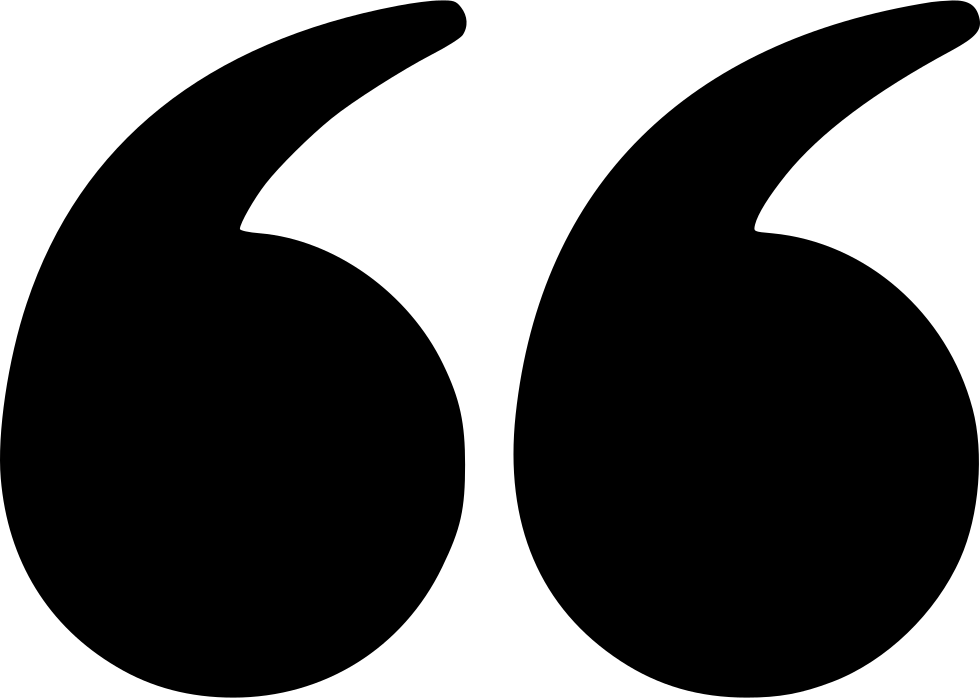
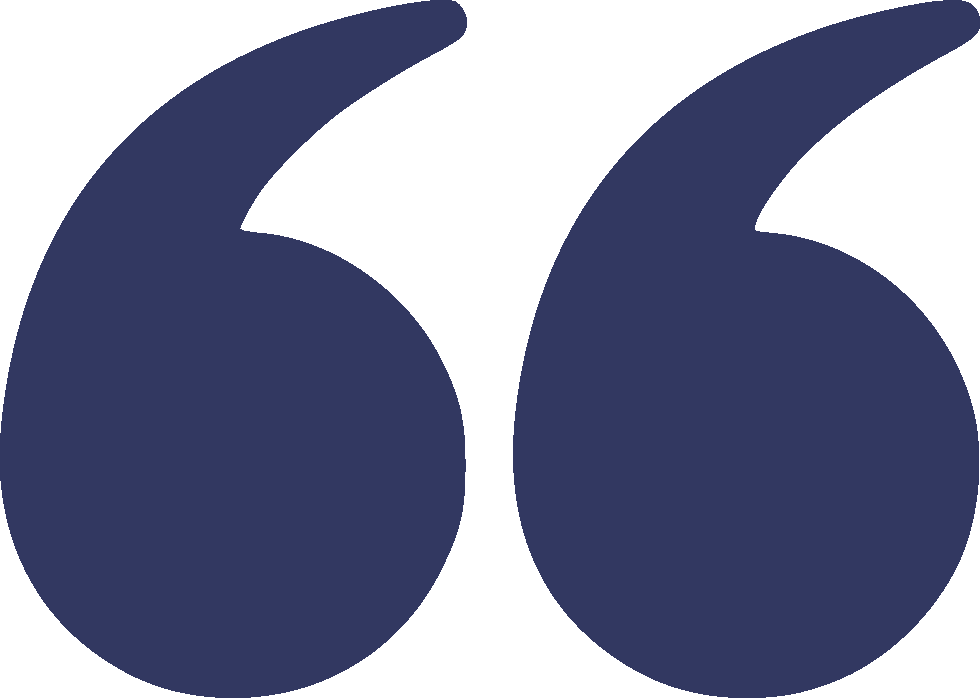
commit all

diff --git a/index.html b/index.html
@@ -334,8 +334,8 @@
                     incididunt ut labore et dolore magna aliqua"
                   </p>
                 </div>
-                <div class="footer">
-                  <div>brand</div>
+                <div class="title">
+                  <p>Brand</p>
                 </div>
               </div>
             </div>
@@ -343,11 +343,16 @@
             <div class="col-md-12 item">
               <div class="slider-container__details slider-container__overlay">
                 <div>
+                  <img src="quotes2.png" />
                   <p>
                     "Lorem ipsum dolor sit amet, consectetur adipiscing elit,
                     sed do eiusmod tempor incididunt ut labore et dolore magna
-                    aliqua.
+                    aliqua onsectetur adipiscing elit, sed do eiusmod tempor
+                    incididunt ut labore et dolore magna aliqua"
                   </p>
+                </div>
+                <div class="title">
+                  <p>Stella</p>
                 </div>
               </div>
             </div>
@@ -355,15 +360,16 @@
             <div class="col-md-12 item">
               <div class="slider-container__details slider-container__overlay">
                 <div>
+                  <img src="quotes2.png" />
                   <p>
                     "Lorem ipsum dolor sit amet, consectetur adipiscing elit,
                     sed do eiusmod tempor incididunt ut labore et dolore magna
-                    aliqua.
+                    aliqua onsectetur adipiscing elit, sed do eiusmod tempor
+                    incididunt ut labore et dolore magna aliqua"
                   </p>
                 </div>
-                <div class="footer">
-                  <div>client</div>
-                  <div>brand</div>
+                <div class="title">
+                  <p>Adriana</p>
                 </div>
               </div>
             </div>
@@ -371,15 +377,16 @@
             <div class="col-md-12 item">
               <div class="slider-container__details slider-container__overlay">
                 <div>
+                  <img src="quotes2.png" />
                   <p>
                     "Lorem ipsum dolor sit amet, consectetur adipiscing elit,
                     sed do eiusmod tempor incididunt ut labore et dolore magna
-                    aliqua.
+                    aliqua onsectetur adipiscing elit, sed do eiusmod tempor
+                    incididunt ut labore et dolore magna aliqua"
                   </p>
                 </div>
-                <div class="footer">
-                  <div>client</div>
-                  <div>brand</div>
+                <div class="title">
+                  <p>Felix</p>
                 </div>
               </div>
             </div>
@@ -387,15 +394,16 @@
             <div class="col-md-12 item">
               <div class="slider-container__details slider-container__overlay">
                 <div>
+                  <img src="quotes2.png" />
                   <p>
                     "Lorem ipsum dolor sit amet, consectetur adipiscing elit,
                     sed do eiusmod tempor incididunt ut labore et dolore magna
-                    aliqua.
+                    aliqua onsectetur adipiscing elit, sed do eiusmod tempor
+                    incididunt ut labore et dolore magna aliqua"
                   </p>
                 </div>
-                <div class="footer">
-                  <div>client</div>
-                  <div>brand</div>
+                <div class="title">
+                  <p>John</p>
                 </div>
               </div>
             </div>
@@ -538,14 +546,17 @@
           </div>
           <div class="col-xs-12 col-md-2 col-md-offset-2 p2">
             <div class="link"><a href="home.html">Home</a></div>
-            <div class="link"><a href="trips.html">Trips</a></div>
-            <div class="link"><a href="kayaking.html">Kayaking</a></div>
-            <div class="link"><a href="cycling.html">Cycling</a></div>
-            <div class="link"><a href="contact.html">Contact</a></div>
+            <div class="link"><a href="trips.html">About Us</a></div>
+            <div class="link"><a href="kayaking.html">News</a></div>
+            <div class="link"><a href="cycling.html">Contact</a></div>
+            <div class="link"><a href="contact.html">Vacancy</a></div>
+            <div class="link">
+              <a href="contact.html">Client Referal Form</a>
+            </div>
           </div>
           <div class="col-xs-12 col-md-3 col-md-offset-1 p">
             <p class="small">
-              Exxplore UK <br />20-22 Upper Road Road<br />
+              Lapis <br />20-22 Street<br />
               London <br />E13 0EX
             </p>
           </div>

diff --git a/styles/index.css b/styles/index.css
@@ -9,6 +9,9 @@
   font-family: "Didot Medium";
   src: url(fonts/Didot\ Medium.ttf);
 }
+.second-section {
+  margin: 2em 0;
+}
 .second-section img {
   border-radius: 20px;
   width: 100%;
@@ -486,7 +489,7 @@ body {
   color: rgb(199, 201, 217);
 }
 .statistics__number {
-  background-color: #222647;
+  background-color: #464b6d;
   width: 130px;
   height: 130px;
   border-radius: 50%;
@@ -587,8 +590,9 @@ body {
 }
 
 .slider-container {
-  background-color: rgba(236, 237, 243, 0.5921568627);
+  background-color: rgba(236, 237, 243, 0.8588235294);
   padding: 7em 0;
+  padding-bottom: 10em;
 }
 @media (min-width: 768px) {
   .slider-container .container-right {
@@ -619,6 +623,7 @@ body {
   padding: 3rem;
   padding-top: 6rem;
   min-height: 420px;
+  width: 550px !important;
   display: flex;
   flex-direction: column;
   justify-content: space-between;
@@ -626,11 +631,18 @@ body {
   position: relative;
 }
 .slider-container__details img {
-  opacity: 0.04;
+  opacity: 0.05;
   width: 200px;
   position: absolute;
   top: 50px;
   left: 20px;
+}
+.slider-container__details p {
+  color: rgb(62, 62, 62);
+}
+.slider-container__details .title p {
+  font-weight: 500;
+  color: #323861;
 }
 .slider-container__subtitle {
   font-family: "Work Sans", sans-serif;
@@ -669,7 +681,7 @@ body {
 
 .mission {
   text-align: center;
-  background-color: rgba(244, 244, 244, 0.552);
+  background-color: rgba(236, 237, 243, 0.8588235294);
   padding: 3em 0;
   padding-top: 8em;
 }
@@ -731,8 +743,9 @@ body {
 .prev,
 .next {
   border-radius: 50%;
-  padding: 2rem;
-  border: 2px solid #323861;
+  padding: 1.5rem;
+  margin-left: 10px;
+  border: 2px solid #878db4;
   width: 50px;
   height: 50px;
   font-weight: lighter;
@@ -742,10 +755,11 @@ body {
   align-items: center;
   justify-content: center;
   cursor: pointer;
+  color: #878db4;
 }
 .prev:hover,
 .next:hover {
-  background-color: #323861;
+  background-color: #878db4;
   color: white;
 }
 
@@ -754,13 +768,14 @@ body {
 }
 
 .slider .slick-active + .slick-active + .slick-slide .slider-container__details {
-  opacity: 0.6 !important;
+  opacity: 0.4 !important;
   background-color: white !important;
   box-shadow: 0 3px 10px rgba(0, 0, 0, 0.05);
 }
 
 .auto-slider-container {
   padding-bottom: 7em;
+  background-color: rgba(236, 237, 243, 0.8588235294);
 }
 
 .item img {

diff --git a/styles/index.scss b/styles/index.scss
@@ -1,8 +1,10 @@
 $dark-blue: #323861;
-$darker-blue: #222647;
+$mid-blue: #878db4;
+
+$darker-blue: #464b6d;
 $hilight-color: rgb(255, 177, 8);
 $hilight-dark: rgb(212, 148, 9);
-$light-blue: #ecedf397;
+$light-blue: #ecedf3db;
 $grey: #6a7385;
 $white: white;
 $light-black: rgb(62, 62, 62);
@@ -20,9 +22,12 @@ $dark-white: rgba(244, 244, 244, 0.552);
   src: url(fonts/Didot\ Medium.ttf);
 }
 
-.second-section img {
-  border-radius: 20px;
-  width: 100%;
+.second-section {
+  margin: 2em 0;
+  img {
+    border-radius: 20px;
+    width: 100%;
+  }
 }
 
 p {
@@ -452,6 +457,7 @@ body {
 .slider-container {
   background-color: $light-blue;
   padding: 7em 0;
+  padding-bottom: 10em;
   @media (min-width: 768px) {
     .container-right {
       margin-right: 0;
@@ -485,6 +491,7 @@ body {
     padding: 3rem;
     padding-top: 6rem;
     min-height: 420px;
+    width: 550px !important;
     display: flex;
     flex-direction: column;
     justify-content: space-between;
@@ -492,11 +499,22 @@ body {
     position: relative;
 
     img {
-      opacity: 0.04;
+      opacity: 0.05;
       width: 200px;
       position: absolute;
       top: 50px;
       left: 20px;
+    }
+
+    p {
+      color: $light-black;
+    }
+
+    .title {
+      p {
+        font-weight: 500;
+        color: $dark-blue;
+      }
     }
 
     // p {
@@ -548,7 +566,7 @@ body {
 
 .mission {
   text-align: center;
-  background-color: $dark-white;
+  background-color: $light-blue;
   padding: 3em 0;
   padding-top: 8em;
 }
@@ -617,8 +635,9 @@ body {
 .prev,
 .next {
   border-radius: 50%;
-  padding: 2rem;
-  border: 2px solid $dark-blue;
+  padding: 1.5rem;
+  margin-left: 10px;
+  border: 2px solid $mid-blue;
   width: 50px;
   height: 50px;
   font-weight: lighter;
@@ -628,9 +647,10 @@ body {
   align-items: center;
   justify-content: center;
   cursor: pointer;
+  color: $mid-blue;
 
   &:hover {
-    background-color: $dark-blue;
+    background-color: $mid-blue;
     color: $white;
   }
 }
@@ -644,13 +664,14 @@ body {
   + .slick-active
   + .slick-slide
   .slider-container__details {
-  opacity: 0.6 !important;
+  opacity: 0.4 !important;
   background-color: white !important;
   box-shadow: 0 3px 10px rgb(0 0 0 / 0.05);
 }
 
 .auto-slider-container {
   padding-bottom: 7em;
+  background-color: $light-blue;
 }
 
 .item {

diff --git a/jquery/slider.js b/jquery/slider.js
@@ -3,6 +3,7 @@ $(".slider").slick({
   ltl: true,
   infinite: true,
   speed: 300,
+  variableWidth: true,
   slidesToShow: 2,
   slidesToScroll: 1,
   prevArrow: $(".prev"),
